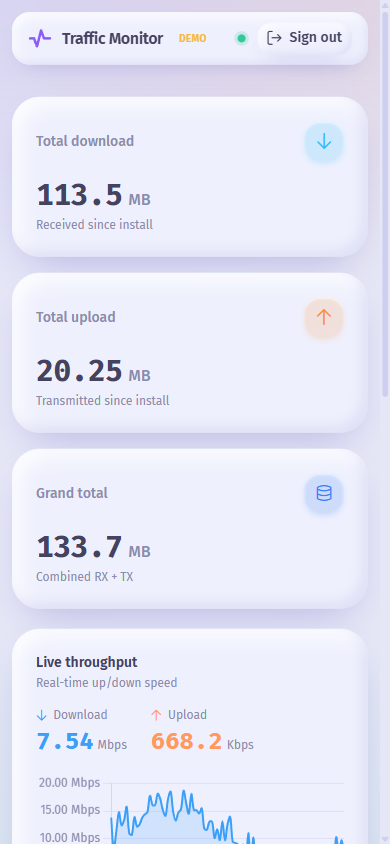
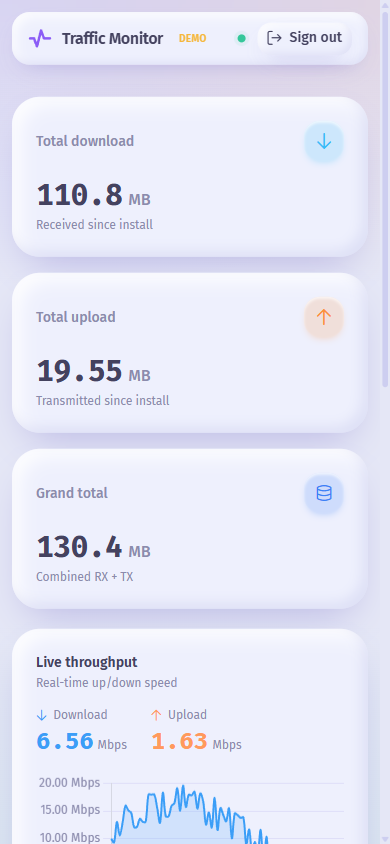
UI: prettier mobile footer; fix doubled v in version
- Redesign the footer as a soft clay-inset well: the interface name is a small
  pill, MAC/MTU/speed are compact muted items, and the install date carries a
  clock icon. Centered and stacked on mobile, spread into a row from sm up.
- Fix the version label rendering as vv1.2.2 (the build version already
  includes the leading v) — now shows the version as-is.

diff --git a/frontend/pages/index.vue b/frontend/pages/index.vue
@@ -20,23 +20,34 @@
       <PeriodChart />
 
       <!-- Footer / interface details -->
-      <footer class="flex flex-wrap items-center justify-between gap-3 border-t border-black/5 pt-5 text-xs text-muted">
-        <div class="flex flex-wrap items-center gap-x-4 gap-y-1">
-          <span v-if="iface">
-            <span class="text-ink tnum">{{ iface.name }}</span>
-            <template v-if="iface.mac"> · MAC {{ iface.mac }}</template>
-            <template v-if="iface.mtu"> · MTU {{ iface.mtu }}</template>
-            <template v-if="iface.speed_mbps > 0"> · {{ iface.speed_mbps }} Mbps link</template>
-          </span>
-          <span v-if="totals">Monitoring since <span class="text-ink">{{ formatDate(totals.install_unix) }}</span></span>
+      <footer
+        class="clay-inset flex flex-col items-center gap-3 px-5 py-4 text-center text-[11px] leading-relaxed text-muted sm:flex-row sm:items-center sm:justify-between sm:text-left sm:text-xs"
+      >
+        <div class="flex flex-col items-center gap-1.5 sm:items-start">
+          <div
+            v-if="iface"
+            class="flex flex-wrap items-center justify-center gap-x-2.5 gap-y-1 sm:justify-start"
+          >
+            <span class="rounded-md bg-[var(--surface)] px-2 py-0.5 font-semibold text-ink tnum shadow-sm">
+              {{ iface.name }}
+            </span>
+            <span v-if="iface.mac" class="tnum">{{ iface.mac }}</span>
+            <span v-if="iface.mtu">MTU {{ iface.mtu }}</span>
+            <span v-if="iface.speed_mbps > 0">{{ iface.speed_mbps }} Mbps</span>
+          </div>
+          <div v-if="totals" class="inline-flex items-center gap-1">
+            <i class="pi pi-clock text-[10px] opacity-70" />
+            <span>Monitoring since <span class="text-ink">{{ formatDate(totals.install_unix) }}</span></span>
+          </div>
         </div>
+
         <div class="flex items-center gap-3">
-          <span>v{{ version }}</span>
+          <span class="tnum rounded-md bg-[var(--surface)] px-2 py-0.5 shadow-sm">{{ version }}</span>
           <a
             href="https://github.com/Kup1ng/Traffic-monitor"
             target="_blank"
             rel="noopener"
-            class="inline-flex items-center gap-1 hover:text-ink"
+            class="inline-flex items-center gap-1 transition-colors hover:text-ink"
           >
             <i class="pi pi-github" /> GitHub
           </a>
